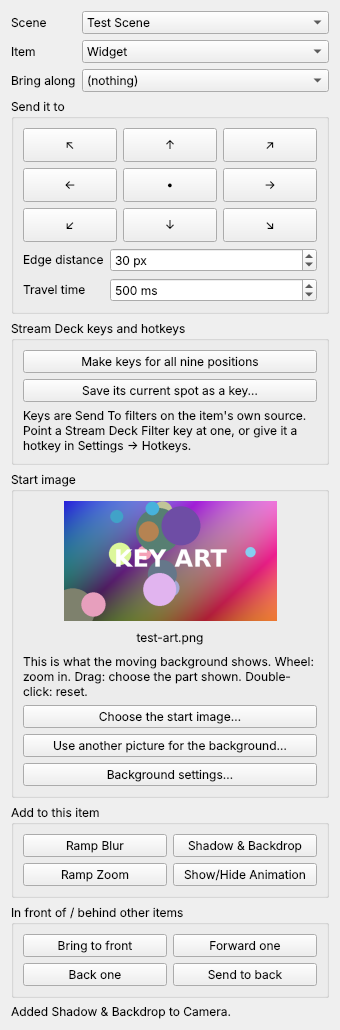
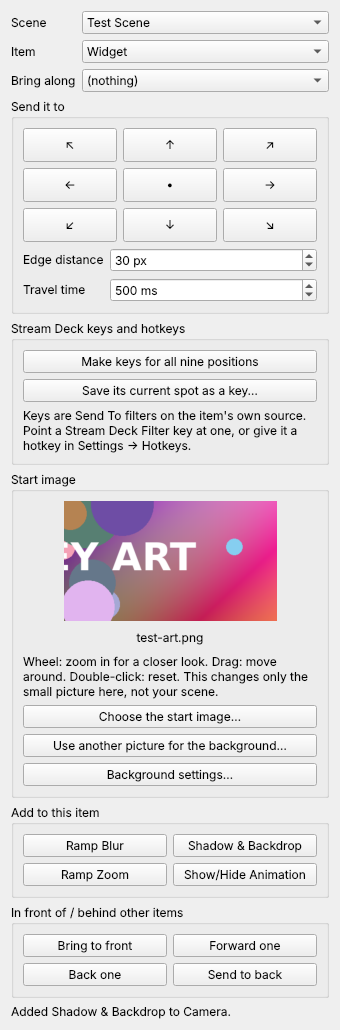
Dock: zooming the start image thumbnail changes only the thumbnail
Claude-Session: https://claude.ai/code/session_01AkZzWGBxMrGHVePemUnc9z

Changed region(s): [[0.0588, 0.466, 0.9118, 0.6835]]

diff --git a/src/dock/stagekit-dock.cpp b/src/dock/stagekit-dock.cpp
@@ -16,8 +16,8 @@ the Free Software Foundation; either version 2 of the License, or
 //   - save the item's current spot as a key
 //   - add a StageKit effect to the item without hunting through menus
 //   - it follows the item selected in OBS's own preview
-//   - the start image, with a thumbnail: turn the wheel on it to zoom the
-//     moving background in, drag it to choose the part shown
+//   - the start image, with a thumbnail: turn the wheel on it for a closer
+//     look and drag to move around (the thumbnail only, never the scene)
 //
 // Moves are carried out by Send To filters on the item's own source, so the
 // dock and the keys always behave the same way, and a key is a filter on the
@@ -202,25 +202,21 @@ public:
 		start_thumb_ = new Thumb(start_box);
 		start_thumb_->setObjectName("startThumb");
 		start_thumb_->setCursor(Qt::OpenHandCursor);
+		// Zooming and dragging only change this small picture, for a closer
+		// look at it. The scene itself is not touched.
 		start_thumb_->on_wheel = [this](double steps) {
-			AmbientView view = ambient_view();
-			view.zoom *= std::pow(1.1, steps);
-			set_ambient_view(view);
+			thumb_zoom_ = std::clamp(thumb_zoom_ * std::pow(1.1, steps), 1.0, 8.0);
 			show_thumb();
 		};
 		start_thumb_->on_drag = [this](double dx, double dy) {
 			// Dragging the picture right shows more of its left.
-			AmbientView view = ambient_view();
-			view.focus_x -= dx / view.zoom;
-			view.focus_y -= dy / view.zoom;
-			set_ambient_view(view);
+			thumb_x_ = std::clamp(thumb_x_ - dx / thumb_zoom_, 0.0, 1.0);
+			thumb_y_ = std::clamp(thumb_y_ - dy / thumb_zoom_, 0.0, 1.0);
 			show_thumb();
 		};
 		start_thumb_->on_reset = [this] {
-			AmbientView view = ambient_view();
-			view.zoom = 1.0;
-			view.focus_x = view.focus_y = 0.5;
-			set_ambient_view(view);
+			thumb_zoom_ = 1.0;
+			thumb_x_ = thumb_y_ = 0.5;
 			show_thumb();
 		};
 		start_thumb_->setAlignment(Qt::AlignCenter);
@@ -352,6 +348,8 @@ public:
 		if (shown != thumb_path_) {
 			// Read the picture already shrunk, so a large image costs little.
 			thumb_path_ = shown;
+			thumb_zoom_ = 1.0;
+			thumb_x_ = thumb_y_ = 0.5;
 			thumb_full_ = QPixmap();
 			if (!shown.isEmpty()) {
 				QImageReader reader(shown);
@@ -445,24 +443,16 @@ private:
 
 	void say(const QString &text) { status_->setText(text); }
 
-	// Draws the part of the picture the moving background uses, 16:9, at
-	// the zoom and point chosen with the wheel and by dragging.
+	// Draws the picture small, at the zoom and place chosen with the wheel
+	// and by dragging. Zoomed right out, the whole picture is shown.
 	void show_thumb()
 	{
 		QPixmap picture;
 		if (!thumb_full_.isNull()) {
-			const AmbientView view = ambient_view();
 			const double pw = thumb_full_.width(), ph = thumb_full_.height();
-			// The whole-screen piece of the picture, then zoomed.
-			double w = pw, h = pw * 9.0 / 16.0;
-			if (h > ph) {
-				h = ph;
-				w = ph * 16.0 / 9.0;
-			}
-			w /= view.zoom;
-			h /= view.zoom;
-			const double x = std::clamp(view.focus_x * pw - w / 2.0, 0.0, pw - w);
-			const double y = std::clamp(view.focus_y * ph - h / 2.0, 0.0, ph - h);
+			const double w = pw / thumb_zoom_, h = ph / thumb_zoom_;
+			const double x = std::clamp(thumb_x_ * pw - w / 2.0, 0.0, pw - w);
+			const double y = std::clamp(thumb_y_ * ph - h / 2.0, 0.0, ph - h);
 			picture = thumb_full_.copy(QRectF(x, y, w, h).toRect())
 					  .scaledToHeight(kThumbHeight, Qt::SmoothTransformation);
 		}
@@ -703,6 +693,7 @@ private:
 	QLabel *start_label_ = nullptr;
 	Thumb *start_thumb_ = nullptr;
 	QPixmap thumb_full_;
+	double thumb_zoom_ = 1.0, thumb_x_ = 0.5, thumb_y_ = 0.5; // the thumbnail's own view
 	QPushButton *background_same_ = nullptr;
 	QString followed_;
 	QString thumb_path_ = QStringLiteral("\x01"); // nothing loaded yet

diff --git a/tests/ambient-test.cpp b/tests/ambient-test.cpp
@@ -1982,8 +1982,8 @@ int main(int argc, char **argv)
 				      "a long start image file name does not widen the dock (%d, was %d)",
 				      dock->minimumSizeHint().width(), narrow);
 
-				// The wheel on the thumbnail zooms the moving background for the
-				// whole collection; dragging chooses the part shown.
+				// The wheel and dragging on the thumbnail are for a closer look
+				// at it in the dock. The scene must not change.
 				auto background_look = [&] {
 					obs_data_t *bs = obs_data_create();
 					obs_data_set_int(bs, "base_type", 2);
@@ -2002,8 +2002,12 @@ int main(int argc, char **argv)
 					proc_handler_call(obs_get_proc_handler(), "stagekit_set_start_image", &pic);
 					calldata_free(&pic);
 				}
-				sleep_ms(300);
-				const std::vector<uint8_t> wide = background_look();
+				for (int i = 0; i < 12; i++) {
+					QCoreApplication::processEvents();
+					sleep_ms(50);
+				}
+				const std::vector<uint8_t> scene_before = background_look();
+				const QImage thumb_before = thumb ? thumb->pixmap().toImage() : QImage();
 				if (thumb) {
 					const QPointF middle(thumb->width() / 2.0, thumb->height() / 2.0);
 					QWheelEvent zoom_in(middle, thumb->mapToGlobal(middle), QPoint(),
@@ -2011,10 +2015,9 @@ int main(int argc, char **argv)
 							    Qt::NoScrollPhase, false);
 					QCoreApplication::sendEvent(thumb, &zoom_in);
 				}
-				const std::vector<uint8_t> zoomed = background_look();
-				CHECK(mean_abs_diff(wide, zoomed) > 2.0,
-				      "turning the wheel on the thumbnail zooms the moving background (diff %.1f)",
-				      mean_abs_diff(wide, zoomed));
+				const QImage thumb_zoomed = thumb ? thumb->pixmap().toImage() : QImage();
+				CHECK(!thumb_before.isNull() && thumb_zoomed != thumb_before,
+				      "turning the wheel on the thumbnail zooms the thumbnail");
 				if (thumb) {
 					auto drag = [&](QEvent::Type type, QPointF where) {
 						QMouseEvent event(type, where, thumb->mapToGlobal(where),
@@ -2024,17 +2027,12 @@ int main(int argc, char **argv)
 					drag(QEvent::MouseButtonPress, QPointF(100, 60));
 					drag(QEvent::MouseMove, QPointF(40, 60));
 				}
-				const std::vector<uint8_t> panned = background_look();
-				CHECK(mean_abs_diff(zoomed, panned) > 1.0,
-				      "dragging the thumbnail chooses the part of the picture shown (diff %.1f)",
-				      mean_abs_diff(zoomed, panned));
-				calldata_t reset = {};
-				calldata_set_string(&reset, "image", "");
-				calldata_set_float(&reset, "zoom", 1.0);
-				calldata_set_float(&reset, "focus_x", 0.5);
-				calldata_set_float(&reset, "focus_y", 0.5);
-				proc_handler_call(obs_get_proc_handler(), "stagekit_set_ambient_view", &reset);
-				calldata_free(&reset);
+				CHECK(thumb && thumb->pixmap().toImage() != thumb_zoomed,
+				      "and dragging moves around it");
+				const std::vector<uint8_t> scene_after = background_look();
+				CHECK(mean_abs_diff(scene_before, scene_after) < 0.01,
+				      "the scene itself is not zoomed or moved (diff %.3f)",
+				      mean_abs_diff(scene_before, scene_after));
 			}
 
 			dock->resize(340, dock->sizeHint().height());

diff --git a/src/common/start-image.hpp b/src/common/start-image.hpp
@@ -32,13 +32,14 @@ uint64_t start_image_choice();
 // Goes up every time the path changes, so users of it can tell cheaply.
 uint64_t start_image_revision();
 
-// How the moving background frames its picture, set once for the whole
-// collection: an optional picture of its own (empty means "the start
-// image"), how far it is zoomed in, and the point it zooms in on.
+// The moving background's picture, set once for the whole collection: empty
+// means "the start image". The zoom and focus are kept at their neutral
+// values: the owner wanted zooming in the dock's thumbnail only, not in the
+// scene (0.1.0-beta20 and beta21 applied them to the background).
 struct AmbientView {
 	std::string image;
-	double zoom = 1.0;                   // 1 = whole picture, up to 8
-	double focus_x = 0.5, focus_y = 0.5; // 0..1 across and down the picture
+	double zoom = 1.0;
+	double focus_x = 0.5, focus_y = 0.5;
 };
 AmbientView ambient_view();
 // Counts as a change of the start image for everything that follows it.

diff --git a/src/common/start-image.cpp b/src/common/start-image.cpp
@@ -162,9 +162,9 @@ void set_ambient_view(const AmbientView &view)
 	{
 		std::lock_guard lock(g_mutex);
 		g_view = view;
-		g_view.zoom = std::clamp(view.zoom, 1.0, 8.0);
-		g_view.focus_x = std::clamp(view.focus_x, 0.0, 1.0);
-		g_view.focus_y = std::clamp(view.focus_y, 0.0, 1.0);
+		// Only the picture is a setting; the framing stays neutral.
+		g_view.zoom = 1.0;
+		g_view.focus_x = g_view.focus_y = 0.5;
 	}
 	g_revision++;
 }

diff --git a/README.md b/README.md
@@ -307,10 +307,10 @@ Open it from *Docks → StageKit*. It works on the current scene (the preview sc
   those filters, or give it a hotkey.
 - *Save its current spot as a key* does the same for wherever the item is now: drag it where you want
   it in the preview first.
-- **Start image**: the thumbnail shows what the moving background uses. Turn the mouse wheel on it to
-  zoom the background in, drag it to choose the part shown, double-click to reset. This is one setting
-  for the whole collection. *Use another picture for the background…* gives the background a picture
-  of its own; *Background settings…* opens the Ambient Background's other settings.
+- **Start image**: a thumbnail of the picture. Turn the mouse wheel on it for a closer look, drag to
+  move around, double-click to reset; this changes only the thumbnail, never your scene. The start
+  image is also the moving background's picture. *Use another picture for the background…* gives the
+  background a picture of its own; *Background settings…* opens the Ambient Background's settings.
 - *Bring to front*, *Forward one*, *Back one* and *Send to back* change which items cover which.
 - *Add to this item* puts a Ramp Blur, Shadow & Backdrop, Ramp Zoom or Show/Hide Animation on the item
   and opens its filter window. Ramp Blur and Ramp Zoom are added switched off.

diff --git a/AGENTS.md b/AGENTS.md
@@ -107,8 +107,8 @@ Use clang-format 19 (`pip install clang-format==19.1.7`) and `pip install gersem
   seen on screen corrects it. Only a shape the owner saved, or a Picture Shape key, is obeyed blindly.
 - **The dock has no picture of the scene.** One was built (drag, wheel, zoom cross) and the owner
   rejected it: they select items in OBS's own preview, and the dock must act on that selection. The
-  wheel-zoom they asked for belongs to the start image thumbnail and sets the background's framing
-  (`AmbientView` in `src/common/start-image.*`), not an item's size.
+  wheel-zoom they asked for belongs to the start image thumbnail and changes only that thumbnail in
+  the dock: never an item, never the background in the scene.
 - **Dock keys are Send To filters on the item's source**, not Place Item filters on the scene. The
   owner presses them from Stream Deck Filter keys on the camera.
 - **Shadow sizes are in screen pixels by default.** The owner's old shadows sat on full-canvas scenes,

diff --git a/DEVELOPMENT_HANDOFF.md b/DEVELOPMENT_HANDOFF.md
@@ -222,8 +222,12 @@ as a filter on the camera.
 
 So: `dock-canvas.*` is deleted; the dock follows `obs_sceneitem_selected`; its keys are Send To filters
 on the item's source; the thumbnail's wheel and drag set a collection-wide `AmbientView` (zoom, focus
-point, optional picture of the background's own), saved under `stagekit.ambient_*`. My reading of "zoom
-in on the thumbnail" as "frame the background" is an interpretation the owner has not confirmed.
+point, optional picture of the background's own), saved under `stagekit.ambient_*`.
+
+That reading of "zoom in on the thumbnail" was wrong. The owner: "zooming into the start image isn't
+supposed to zoom into it in the actual scene viewport, just in the dock." From 0.1.0-beta23 the wheel
+and drag change only the dock's thumbnail; `AmbientView` keeps only the optional picture, and its zoom
+and focus are pinned to neutral so a value saved by beta20 or beta21 has no effect.
 
 ## Scene collection rebuild
 

diff --git a/docs/releases/0.1.0-beta23.md b/docs/releases/0.1.0-beta23.md
@@ -1,0 +1,20 @@
+# StageKit 0.1.0-beta23
+
+Twenty-third pre-release: one correction to the dock. It passes the automated tests on Linux; **it has
+not been run in OBS on Windows yet.**
+
+## What's fixed
+
+- **Zooming the start image thumbnail no longer zooms the background in your scene.** The mouse wheel
+  and dragging on the thumbnail now only give a closer look at the picture in the dock. If you zoomed
+  it in beta20 or beta21, the moving background goes back to showing the whole picture.
+
+## Installing on Windows
+
+Close OBS and run `stagekit-0.1.0-windows-x64-Installer.exe`. It installs over an earlier version.
+
+## Known limits
+
+- The thumbnail's zoom is not remembered; it resets when the picture changes or OBS restarts.
+- The installer and the macOS package are not signed by a publisher.
+- File names carry the base version, 0.1.0.
